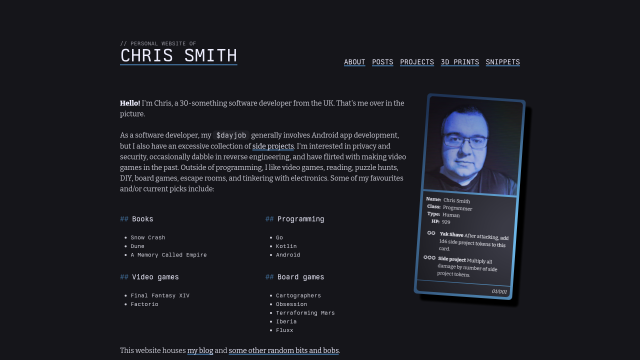
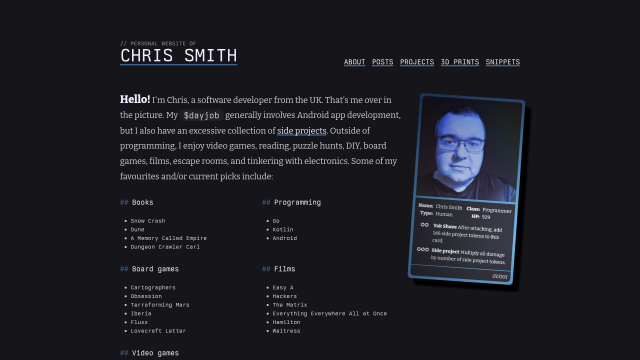
Fiddle with home page a little

Changed region(s): [[0.1875, 0.2444, 0.8125, 1.0], [0.8125, 0.3361, 0.8438, 0.3972]]

diff --git a/static/_about.scss b/static/_about.scss
@@ -15,9 +15,17 @@
       margin-right: 0;
     }
 
+    p:first-child {
+      margin-top: var(--small-space);
+      margin-bottom: var(--small-space);
+      font-size: var(--font-size-large);
+      line-height: 1.8em;
+    }
+
     .drop {
       color: var(--text-highlight-colour);
       font-weight: 800;
+      font-size: var(--font-size-xlarge);
     }
 
     li {
@@ -82,7 +90,7 @@
   }
 
   .tcg-inner {
-    width: 280px;
+    width: 300px;
     margin: -4px;
     background-color: var(--background-alt-colour);
     border-radius: var(--border-radius);
@@ -94,10 +102,6 @@
 
     font-size: var(--font-size-tiny);
 
-    @media (max-width: 500px) {
-      width: 280px;
-    }
-
     img {
       width: 100%;
       border-bottom: 6px solid var(--accent-colour);
@@ -106,7 +110,7 @@
     .tcg-properties {
       width: 100%;
       display: grid;
-      grid-template-columns: auto 1fr;
+      grid-template-columns: auto 1fr auto 1fr;
       padding: 10px;
       grid-column-gap: var(--small-space);
       align-items: baseline;

diff --git a/static/_typography.scss b/static/_typography.scss
@@ -3,6 +3,7 @@
   --font-size-small: 13pt;
   --font-size-regular: 16pt;
   --font-size-large: 19pt;
+  --font-size-xlarge: 24pt;
   --font-size-giant: 40pt;
 
   @media (max-width: 500px) and (min-resolution: 2dppx) {
@@ -10,6 +11,7 @@
     --font-size-small: 9pt;
     --font-size-regular: 12pt;
     --font-size-large: 15pt;
+    --font-size-xlarge: 20pt;
     --font-size-giant: 30pt;
   }
 }
